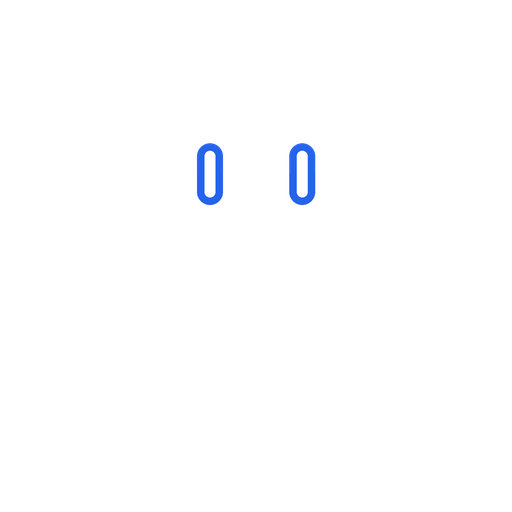
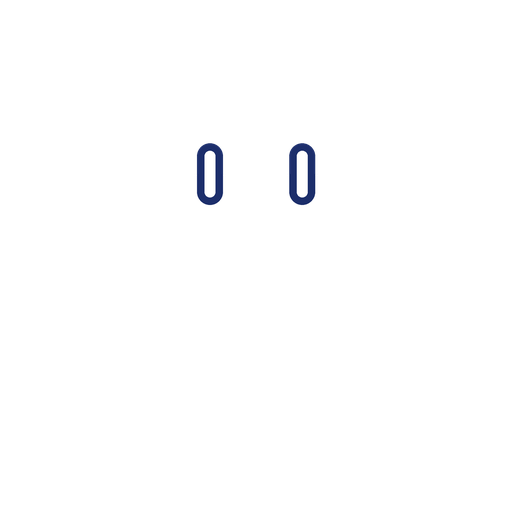
style: icône et splash aux couleurs de l'encre du thème carnet

Changed region(s): [[0.5625, 0.2812, 0.625, 0.4062], [0.375, 0.2812, 0.4375, 0.4062]]

diff --git a/src/app/(tabs)/calendar.tsx b/src/app/(tabs)/calendar.tsx
@@ -1,4 +1,4 @@
-import "@/constants/calendarLocale"; // import pour son effet : traduit le calendrier en français
+import "@/constants/calendarLocale";
 import { router } from "expo-router";
 import { useState } from "react";
 import { FlatList, StyleSheet, Text, View } from "react-native";
